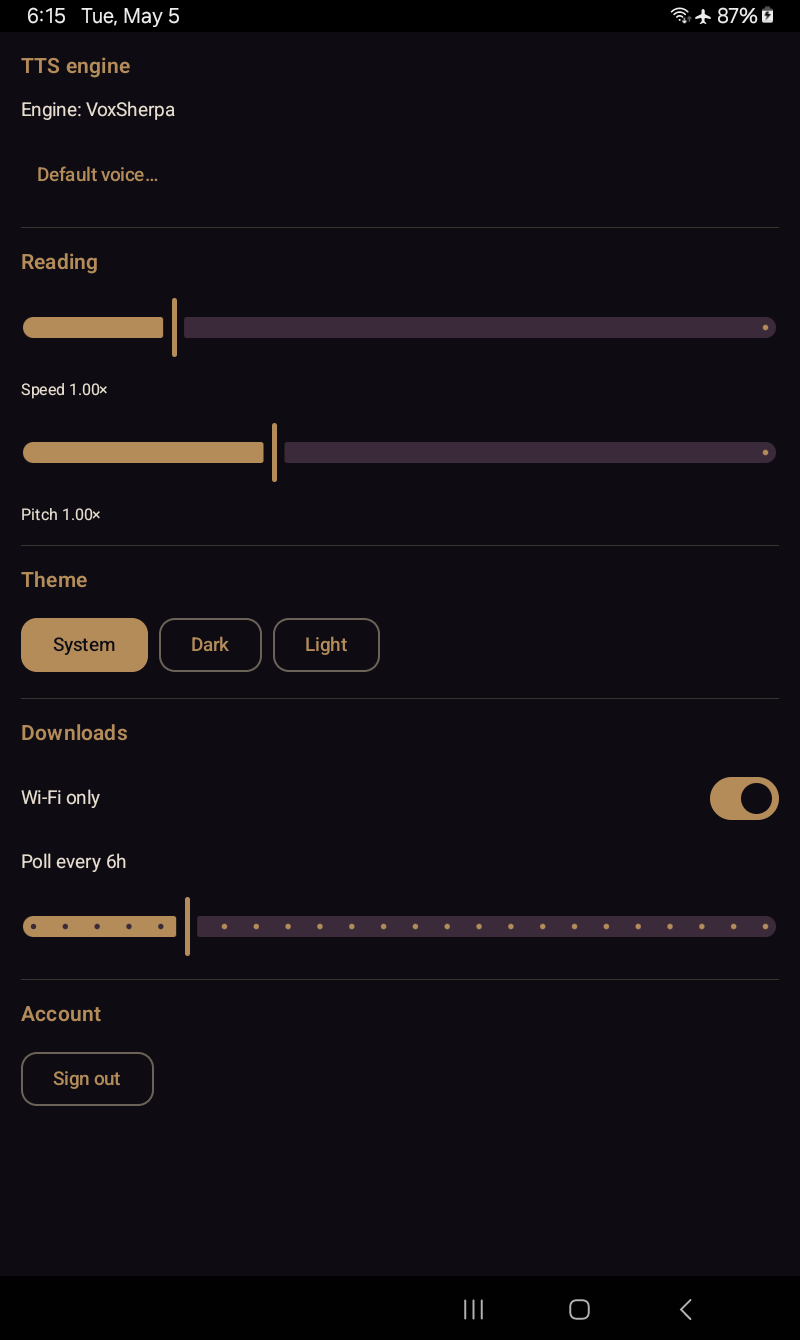
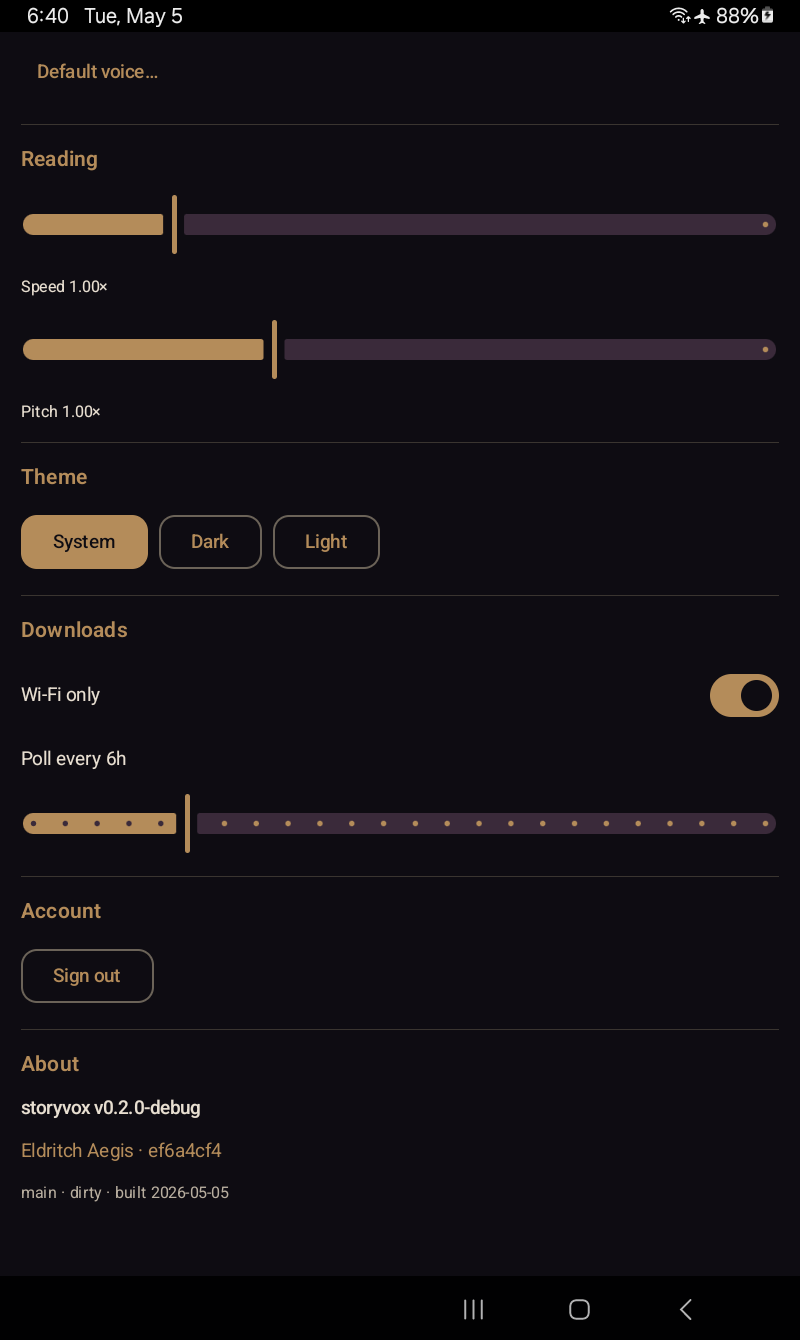
feat(sigil): realm-sigil integration — fantasy realm + Settings → About
Per CLAUDE.md, every project with a public surface should embed
realm-sigil version metadata. storyvox is an Android app, not an HTTP
service — but the same provenance discipline applies. The build now
captures git hash, branch, dirty flag, and ISO build time into
BuildConfig fields, ports realm-sigil's deterministic adjective+noun
algorithm to Kotlin, and surfaces the result in Settings → About.

Realm chosen: **fantasy**. Matches storyvox's identity:
  - Library Nocturne theme (brass on warm dark, candlelit-leather)
  - Open-book launcher icon
  - Magical sigil loading skeletons
  - Royal Road's primary genre is fantasy / litrpg / progression

Implementation:

- `app/build.gradle.kts` — gitOutput() helper shells out to `git`
  during gradle configure, captures hash (--short=8), branch, dirty
  status, and the HEAD commit timestamp. Falls back to "dev" when
  git isn't present (CI artifact downloads, source tarballs). Embeds
  six BuildConfig fields: SIGIL_REALM, SIGIL_HASH, SIGIL_BRANCH,
  SIGIL_DIRTY, SIGIL_BUILT, SIGIL_REPO.
- `app/sigil/Sigil.kt` — port of realm-sigil/js/index.js's name
  generation. Same algorithm: parse hash as hex int, index into
  adjectives via (seed % len), nouns via ((seed >> 8) % len). Word
  lists are inlined from realms.json's "fantasy" entry — kept in sync
  manually since Android can't readily read external JSON during
  gradle configure on every host.
- `:feature/api/UiContracts.kt` — new UiSigil data class added to
[…]

diff --git a/app/src/main/kotlin/in/jphe/storyvox/sigil/Sigil.kt b/app/src/main/kotlin/in/jphe/storyvox/sigil/Sigil.kt
@@ -1,0 +1,83 @@
+package `in`.jphe.storyvox.sigil
+
+import `in`.jphe.storyvox.BuildConfig
+
+/**
+ * realm-sigil port for storyvox.
+ *
+ * Generates a deterministic magical version name from the build's git hash
+ * and the storyvox-chosen realm (`fantasy`). Mirrors the algorithm in
+ * `~/Projects/realm-sigil/js/index.js` so the same hash + realm produces
+ * the same name across the JS, Go, Python, and Kotlin implementations.
+ *
+ * Word lists are inlined from `realm-sigil/words/realms.json` (`fantasy`
+ * realm). Keep them in sync with that file when realms.json changes —
+ * `~/Projects/realm-sigil/sync-words.sh` is the canonical regenerator
+ * but we don't depend on it at build time (Android can't readily read
+ * external JSON during gradle configure on every build host).
+ *
+ * The realm choice — `fantasy` — matches storyvox's identity:
+ *  - Library Nocturne theme (brass on warm dark, candlelit-leather)
+ *  - Open-book launcher icon
+ *  - Magical sigil loading skeletons
+ *  - Royal Road's primary genre is fantasy / litrpg / progression
+ *
+ * A typical sigil reads as e.g. `"Blazing Crown · ef6a4cf3"`.
+ */
+object Sigil {
+
+    /** "Fantasy" realm word lists — keep in sync with realms.json. */
+    private val FANTASY_ADJECTIVES = listOf(
+        "Arcane", "Blazing", "Celestial", "Draconic", "Eldritch",
+        "Fabled", "Gilded", "Hallowed", "Infernal", "Jade",
+        "Kindled", "Luminous", "Mythic", "Noble", "Obsidian",
+        "Primal", "Radiant", "Spectral", "Twilight", "Valiant",
+    )
+
+    private val FANTASY_NOUNS = listOf(
+        "Aegis", "Beacon", "Crown", "Dominion", "Ember",
+        "Forge", "Grimoire", "Herald", "Insignia", "Jewel",
+        "Keystone", "Lantern", "Monolith", "Nexus", "Oracle",
+        "Pinnacle", "Quartz", "Relic", "Sigil", "Throne",
+    )
+
+    /** Generates `"Adjective Noun · hash"` deterministically from the hash. */
+    fun nameFor(hash: String): String {
+        val seed = parseHashAsInt(hash)
+        val adj = FANTASY_ADJECTIVES[Math.floorMod(seed, FANTASY_ADJECTIVES.size)]
+        val noun = FANTASY_NOUNS[Math.floorMod(seed shr 8, FANTASY_NOUNS.size)]
+        return "$adj $noun · $hash"
+    }
+
+    private fun parseHashAsInt(hash: String): Int =
+        runCatching { hash.toLong(radix = 16).toInt() }.getOrDefault(0)
+
+    /** Read-once snapshot of the build's sigil — used by Settings → About. */
+    val current: SigilInfo by lazy {
+        SigilInfo(
+            name = nameFor(BuildConfig.SIGIL_HASH),
+            realm = BuildConfig.SIGIL_REALM,
+            hash = BuildConfig.SIGIL_HASH,
+            branch = BuildConfig.SIGIL_BRANCH,
+            dirty = BuildConfig.SIGIL_DIRTY,
+            built = BuildConfig.SIGIL_BUILT,
+            repo = BuildConfig.SIGIL_REPO,
+            versionName = BuildConfig.VERSION_NAME,
+        )
+    }
+}
+
+data class SigilInfo(
+    val name: String,
+    val realm: String,
+    val hash: String,
+    val branch: String,
+    val dirty: Boolean,
+    val built: String,
+    val repo: String,
+    val versionName: String,
+) {
+    /** URL to the GitHub commit page for this build, or empty for `dev` builds. */
+    val commitUrl: String
+        get() = if (hash != "dev" && repo.isNotBlank()) "$repo/commit/$hash" else ""
+}

diff --git a/feature/src/main/kotlin/in/jphe/storyvox/feature/settings/SettingsScreen.kt b/feature/src/main/kotlin/in/jphe/storyvox/feature/settings/SettingsScreen.kt
@@ -108,6 +108,31 @@ fun SettingsScreen(
             )
         }
 
+        Divider()
+        SectionHeader("About")
+        // Realm-sigil version. The "name" field is a deterministic
+        // adjective+noun drawn from the fantasy realm word list, keyed on
+        // the build's git hash. Same hash → same name across rebuilds.
+        Text(
+            text = "storyvox v${s.sigil.versionName}",
+            style = MaterialTheme.typography.titleSmall,
+        )
+        Text(
+            text = s.sigil.name,
+            style = MaterialTheme.typography.bodyMedium,
+            color = MaterialTheme.colorScheme.primary,
+        )
+        Text(
+            text = buildString {
+                append(s.sigil.branch)
+                if (s.sigil.dirty) append(" · dirty")
+                append(" · built ")
+                append(s.sigil.built.take(10)) // YYYY-MM-DD only
+            },
+            style = MaterialTheme.typography.bodySmall,
+            color = MaterialTheme.colorScheme.onSurfaceVariant,
+        )
+
         Box(modifier = Modifier.fillMaxWidth().padding(top = spacing.lg))
     }
     }

diff --git a/app/src/main/kotlin/in/jphe/storyvox/data/SettingsRepositoryUiImpl.kt b/app/src/main/kotlin/in/jphe/storyvox/data/SettingsRepositoryUiImpl.kt
@@ -15,6 +15,8 @@ import `in`.jphe.storyvox.data.repository.AuthRepository
 import `in`.jphe.storyvox.feature.api.SettingsRepositoryUi
 import `in`.jphe.storyvox.feature.api.ThemeOverride
 import `in`.jphe.storyvox.feature.api.UiSettings
+import `in`.jphe.storyvox.feature.api.UiSigil
+import `in`.jphe.storyvox.sigil.Sigil
 import javax.inject.Inject
 import javax.inject.Singleton
 import kotlinx.coroutines.flow.Flow
@@ -52,6 +54,18 @@ class SettingsRepositoryUiImpl @Inject constructor(
             downloadOnWifiOnly = prefs[Keys.DOWNLOAD_WIFI_ONLY] ?: true,
             pollIntervalHours = prefs[Keys.POLL_INTERVAL_HOURS] ?: 6,
             isSignedIn = prefs[Keys.SIGNED_IN] ?: false,
+            sigil = Sigil.current.let {
+                UiSigil(
+                    name = it.name,
+                    realm = it.realm,
+                    hash = it.hash,
+                    branch = it.branch,
+                    dirty = it.dirty,
+                    built = it.built,
+                    repo = it.repo,
+                    versionName = it.versionName,
+                )
+            },
         )
     }
 

diff --git a/feature/src/main/kotlin/in/jphe/storyvox/feature/api/UiContracts.kt b/feature/src/main/kotlin/in/jphe/storyvox/feature/api/UiContracts.kt
@@ -164,7 +164,40 @@ data class UiSettings(
     val downloadOnWifiOnly: Boolean,
     val pollIntervalHours: Int,
     val isSignedIn: Boolean,
+    val sigil: UiSigil = UiSigil.UNKNOWN,
 )
+
+/**
+ * Realm-sigil version metadata captured at build time. Surfaced in the
+ * Settings → About row. A "fantasy"-realm sigil reads as e.g.
+ * "Blazing Crown · ef6a4cf3".
+ */
+data class UiSigil(
+    val name: String,
+    val realm: String,
+    val hash: String,
+    val branch: String,
+    val dirty: Boolean,
+    val built: String,
+    val repo: String,
+    val versionName: String,
+) {
+    val commitUrl: String
+        get() = if (hash != "dev" && repo.isNotBlank()) "$repo/commit/$hash" else ""
+
+    companion object {
+        val UNKNOWN = UiSigil(
+            name = "Unsigned · dev",
+            realm = "fantasy",
+            hash = "dev",
+            branch = "unknown",
+            dirty = false,
+            built = "unknown",
+            repo = "",
+            versionName = "0.0.0",
+        )
+    }
+}
 
 enum class ThemeOverride { System, Dark, Light }
 
